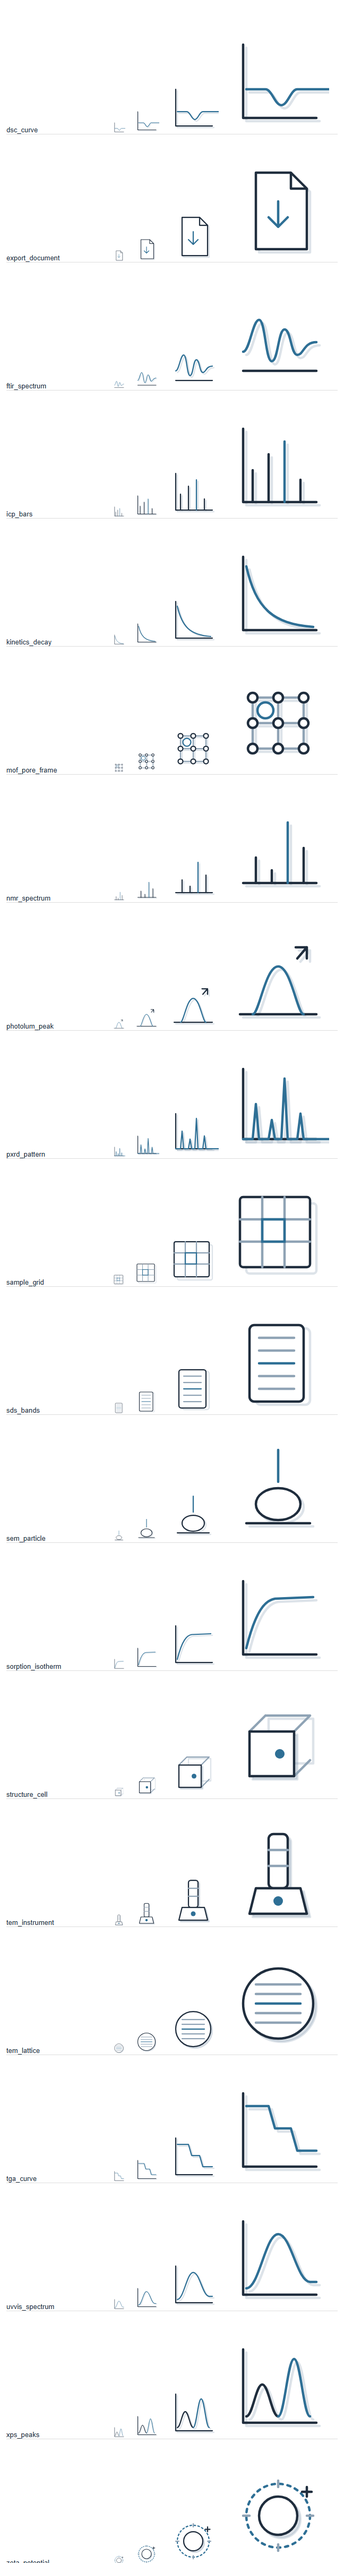
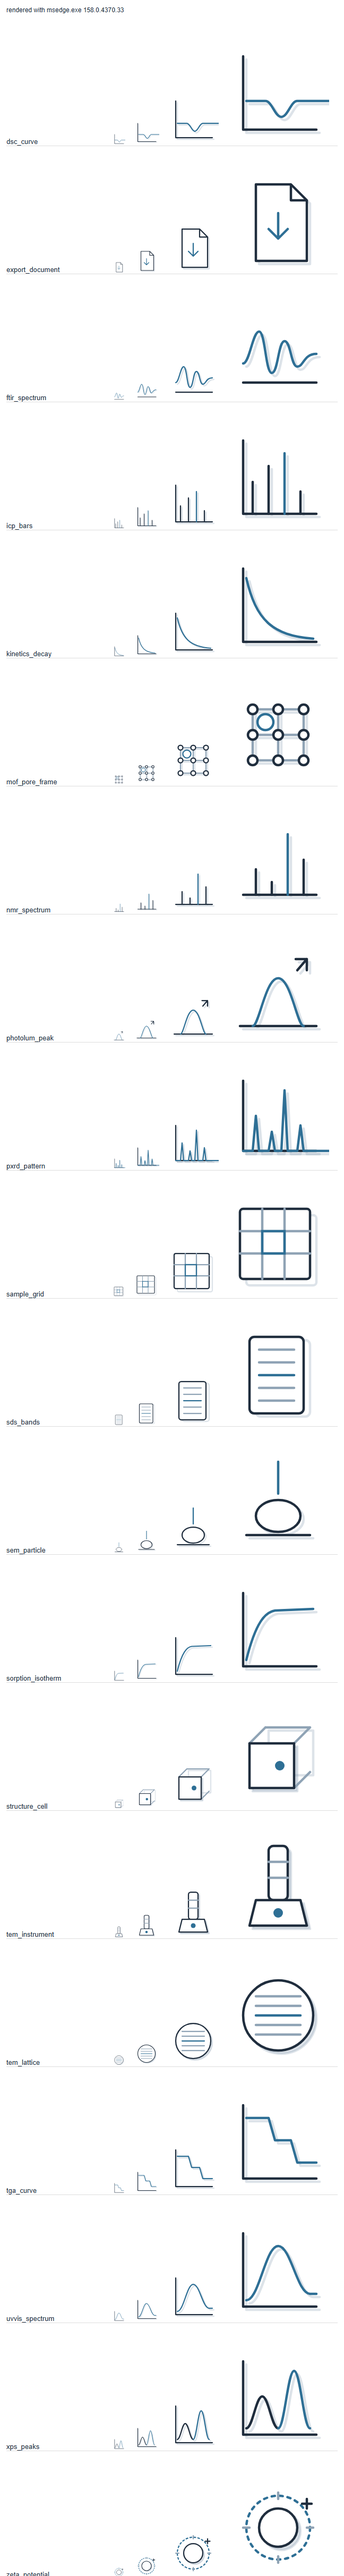
Reticon: nav-name test, Edge version in contact sheet and log, palette tokens in export
- app/tests/test_reticon_nav_names.py: every nav icon name in mfs/sidebar_nav.py ICON_FILE
  must exist in assets/nav_icons; negative test runs the real test against a fake sidebar.
- app/tools/export_icons.py: ICON_TOKENS (STYLE.md palette) blocks an icon with any other
  colour before export; browser_version() logs the browser version and the contact sheet
  caption shows it.
- app/assets/icons_proof/contact_sheet.png: regenerated by the export (tracked file, M).

diff --git a/app/tools/export_icons.py b/app/tools/export_icons.py
@@ -15,6 +15,8 @@ import sys
 import tempfile
 
 SIZES = (24, 48, 96, 192)
+# Palette tokens from docs/icons/STYLE.md. An icon using any other colour is not exported.
+ICON_TOKENS = frozenset({"#1F2D3D", "#2E6F95", "#8FA3B5", "#FFFFFF"})
 BROWSERS = (
     r"C:\Program Files (x86)\Microsoft\Edge\Application\msedge.exe",
     r"C:\Program Files\Microsoft\Edge\Application\msedge.exe",
@@ -27,6 +29,23 @@ def find_browsers() -> list[str]:
     if not found:
         raise SystemExit("No headless Edge or Chrome found; install one or edit BROWSERS.")
     return found
+
+
+def browser_version(path: str) -> str:
+    """Product version of the browser binary, for the export log and the contact sheet."""
+    cmd = ["powershell", "-NoProfile", "-Command", f"(Get-Item '{path}').VersionInfo.ProductVersion"]
+    try:
+        out = subprocess.run(cmd, capture_output=True, text=True, timeout=60, check=True).stdout.strip()
+    except (OSError, subprocess.TimeoutExpired, subprocess.CalledProcessError):
+        return "unknown"
+    return out or "unknown"
+
+
+def off_palette_colours(svg: pathlib.Path) -> set[str]:
+    """Hex colours in the SVG that are not one of the STYLE.md tokens (case-insensitive)."""
+    import re
+    found = {c.upper() for c in re.findall(r"#[0-9A-Fa-f]{6}\b", svg.read_text(encoding="utf-8"))}
+    return found - ICON_TOKENS
 
 
 def render(browsers: list[str], svg: pathlib.Path, png: pathlib.Path, size: int) -> None:
@@ -90,12 +109,16 @@ def build_contact_sheet(browsers: list[str], svgs: list[pathlib.Path], sheet_png
             '<div style="width:%dpx;font:13px sans-serif;color:#1F2D3D">%s</div>%s</div>'
             % (CELL, LABEL_W, svg.stem, imgs)
         )
+    caption = (
+        '<div style="font:12px sans-serif;color:#1F2D3D;padding-bottom:8px">'
+        f"rendered with {pathlib.Path(browsers[0]).name} {browser_version(browsers[0])}</div>"
+    )
     page = (
         '<html><head><meta charset="utf-8"></head>'
-        '<body style="margin:0;padding:12px;background:#FFFFFF">' + "".join(rows) + "</body></html>"
+        '<body style="margin:0;padding:12px;background:#FFFFFF">' + caption + "".join(rows) + "</body></html>"
     )
     width = LABEL_W + sum(SIZES) + 16 * len(SIZES) + 24
-    height = CELL * len(svgs) + 24
+    height = CELL * len(svgs) + 48  # + caption line
     errors: list[str] = []
     with tempfile.TemporaryDirectory() as tmp:
         page_path = pathlib.Path(tmp) / "sheet.html"
@@ -127,6 +150,7 @@ def main() -> int:
     args = ap.parse_args()
 
     browsers = find_browsers()
+    print(f"browser: {pathlib.Path(browsers[0]).name} {browser_version(browsers[0])}")
     args.out.mkdir(parents=True, exist_ok=True)
     svgs = sorted(args.src.glob("*.svg"))
     if not svgs:
@@ -134,6 +158,11 @@ def main() -> int:
         return 1
     failures = 0
     for svg in svgs:
+        bad = off_palette_colours(svg)
+        if bad:
+            failures += 1
+            print(f"FAIL {svg.name}: colours not in STYLE.md tokens: {sorted(bad)}")
+            continue
         for size in SIZES:
             png = args.out / f"{svg.stem}_{size}.png"
             try:

diff --git a/app/tests/test_reticon_nav_names.py b/app/tests/test_reticon_nav_names.py
@@ -1,0 +1,41 @@
+"""Every navigation icon name used by the app must exist in assets/nav_icons.
+
+The names come from ICON_FILE in mfs/sidebar_nav.py, read with ast (the app module is not imported).
+A renamed or removed legacy icon fails here instead of breaking the sidebar at run time.
+"""
+import ast
+import sys
+from pathlib import Path
+
+APP = Path(__file__).resolve().parents[1]
+SIDEBAR = APP / "mfs" / "sidebar_nav.py"
+NAV = APP / "assets" / "nav_icons"
+
+
+def _icon_file_names(sidebar: Path) -> dict:
+    tree = ast.parse(sidebar.read_text(encoding="utf-8"))
+    for node in ast.walk(tree):
+        if isinstance(node, ast.Assign) and any(getattr(t, "id", None) == "ICON_FILE" for t in node.targets):
+            return ast.literal_eval(node.value)
+    raise AssertionError(f"ICON_FILE not found in {sidebar}")
+
+
+def test_every_nav_icon_name_exists():
+    mapping = _icon_file_names(SIDEBAR)
+    assert mapping, "ICON_FILE is empty"
+    missing = {page: name for page, name in mapping.items() if not (NAV / f"{name}.svg").is_file()}
+    assert not missing, f"nav icon files missing for: {missing}"
+
+
+def test_detects_a_missing_nav_icon(monkeypatch, tmp_path):
+    """Runs the real test function against a fake sidebar that names a missing icon."""
+    this = sys.modules[__name__]
+    fake = tmp_path / "sidebar_nav.py"
+    fake.write_text('ICON_FILE = {"Home": "home", "Nope": "does_not_exist"}\n', encoding="utf-8")
+    monkeypatch.setattr(this, "SIDEBAR", fake)
+    try:
+        this.test_every_nav_icon_name_exists()
+    except AssertionError as exc:
+        assert "does_not_exist" in str(exc)
+    else:
+        raise AssertionError("a missing nav icon was not detected")
